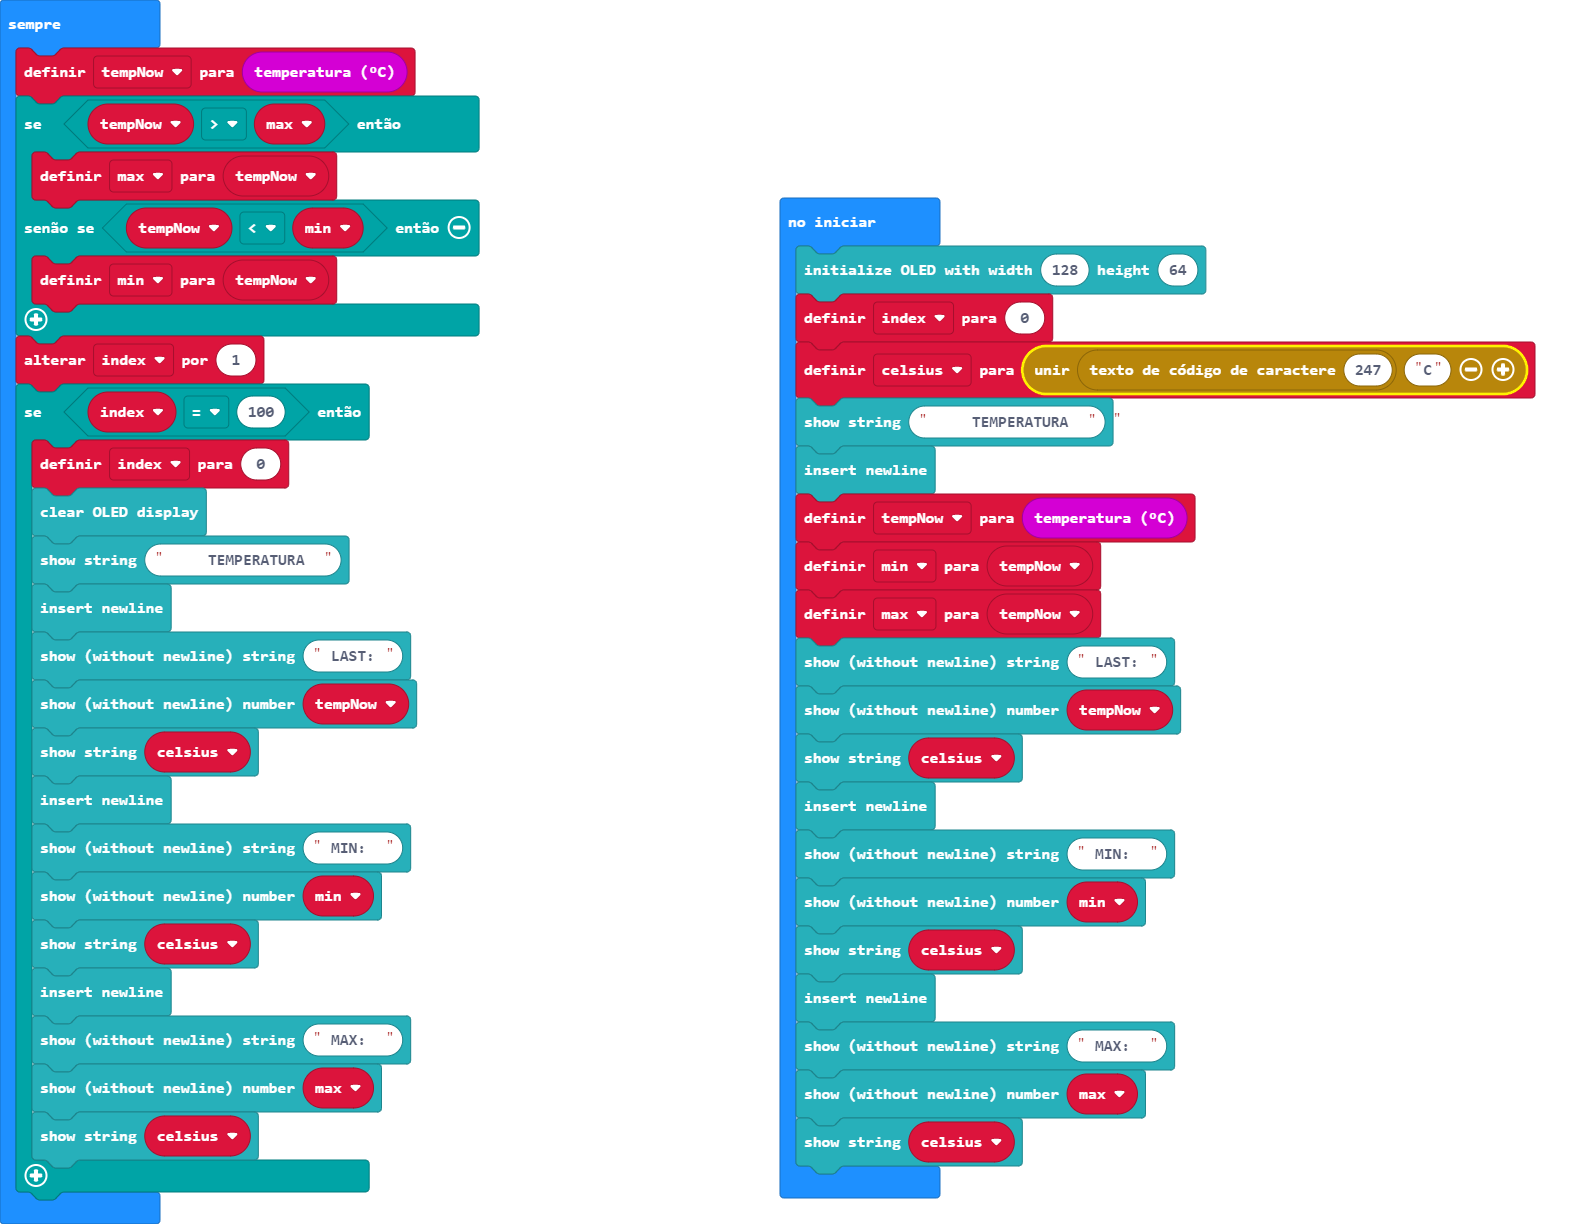
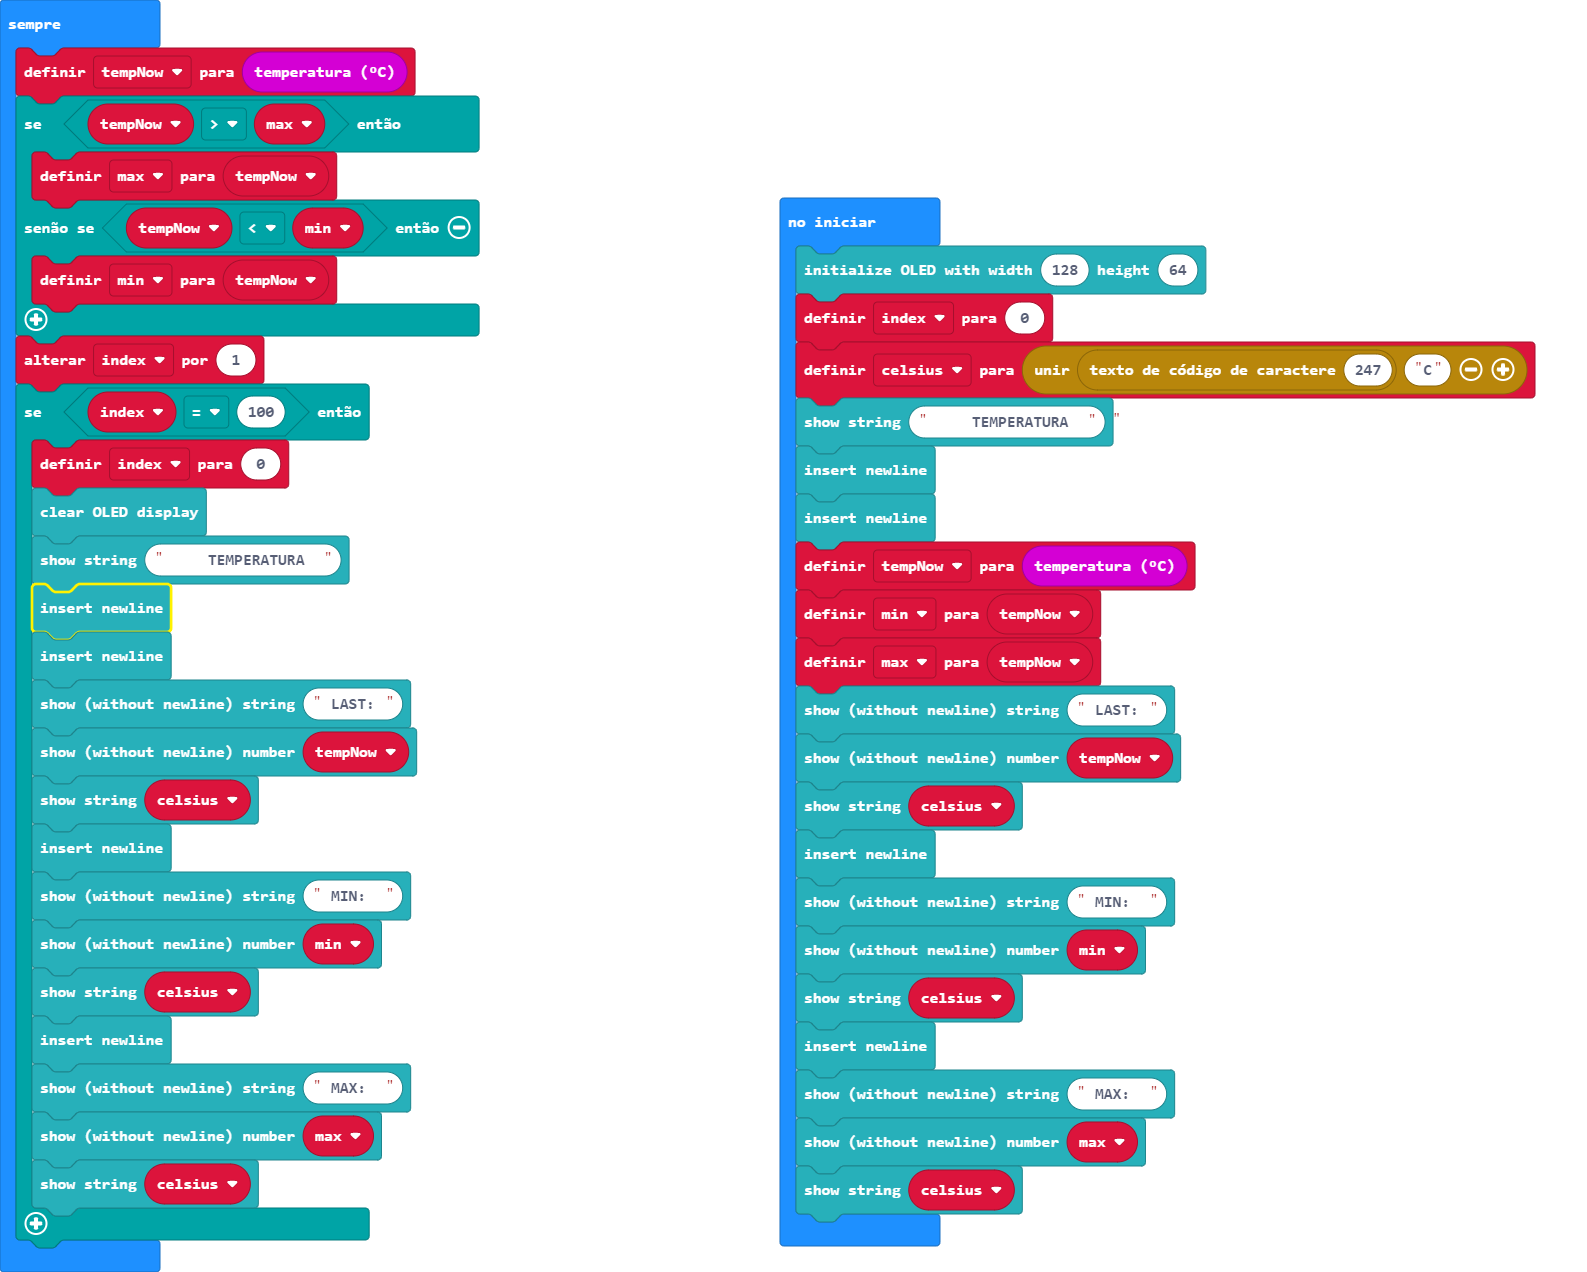
Atualizar 'pxt.json, main.blocks, main.ts'

Changed region(s): [[0.0, 0.031, 0.3088, 0.9935], [0.494, 0.1552, 0.988, 0.9624]]

diff --git a/main.ts b/main.ts
@@ -3,6 +3,7 @@ let index = 0
 let celsius = "" + String.fromCharCode(247) + "C"
 OLED.writeStringNewLine("     TEMPERATURA  ")
 OLED.newLine()
+OLED.newLine()
 let tempNow = input.temperature()
 let min = tempNow
 let max = tempNow
@@ -29,6 +30,7 @@ basic.forever(function () {
         index = 0
         OLED.clear()
         OLED.writeStringNewLine("     TEMPERATURA  ")
+        OLED.newLine()
         OLED.newLine()
         OLED.writeString(" LAST: ")
         OLED.writeNum(tempNow)
